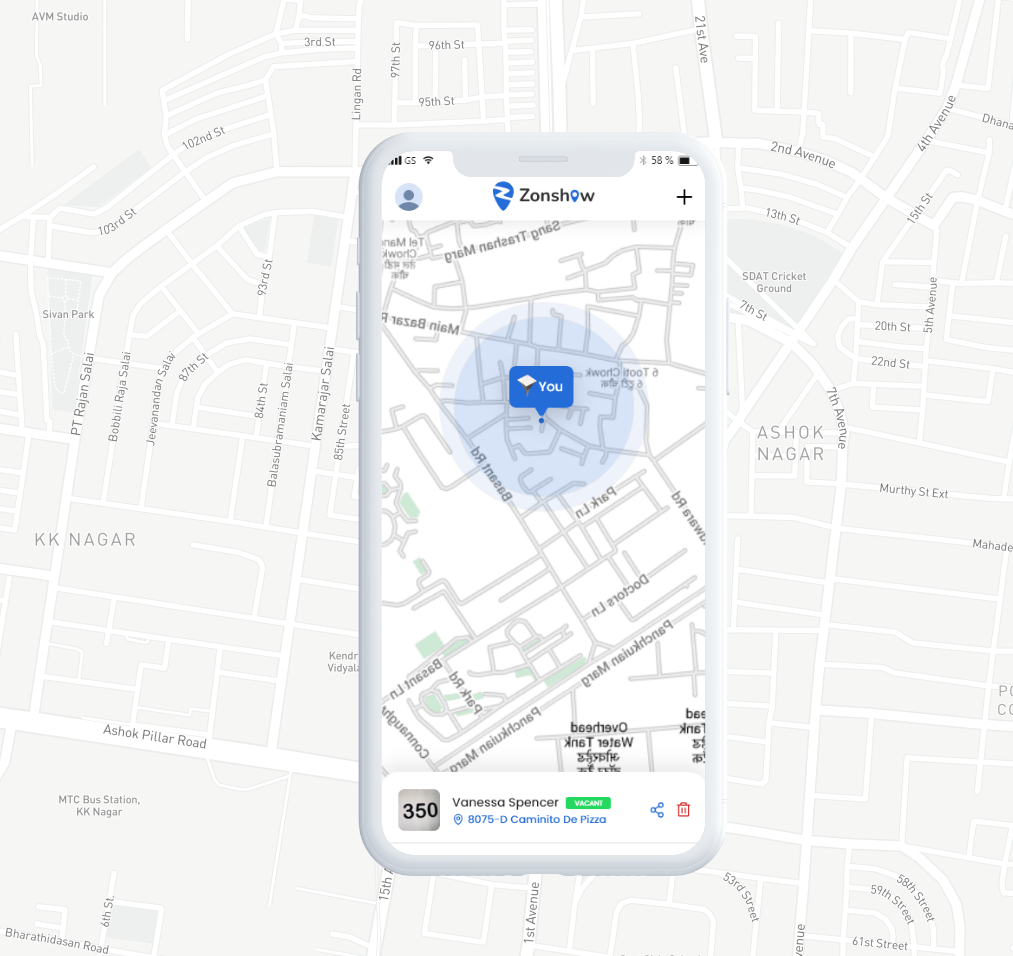
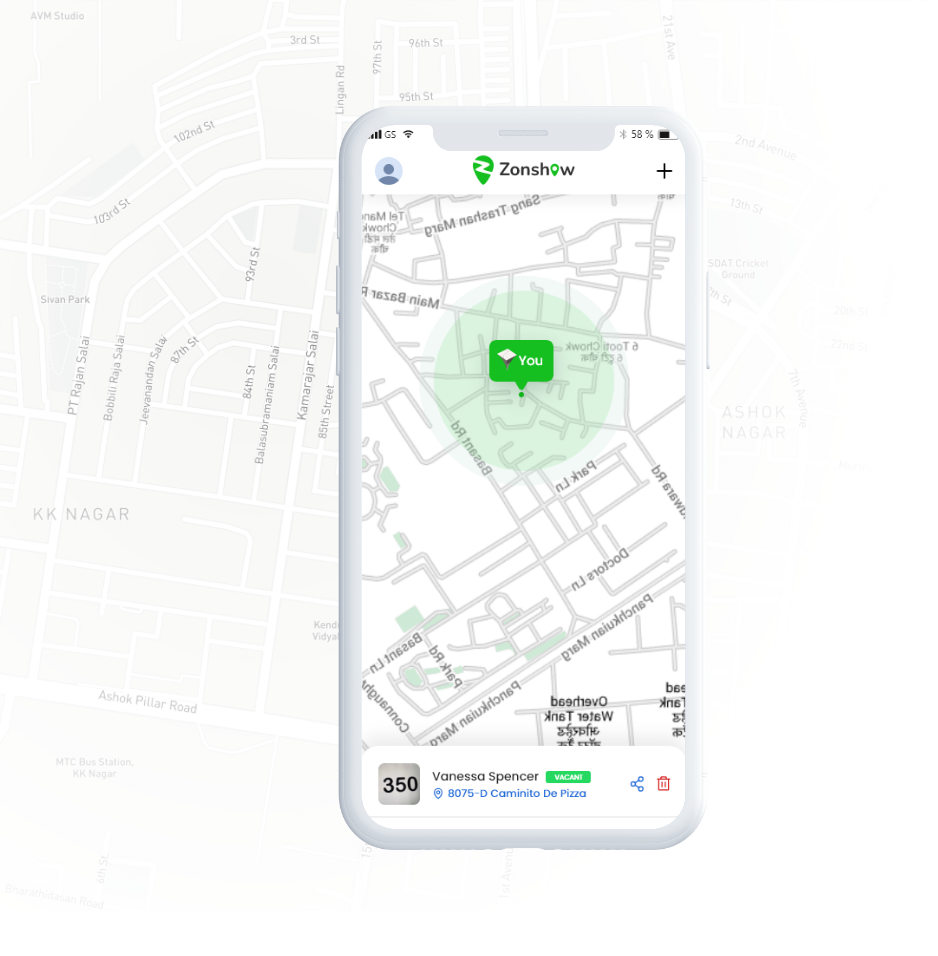
r1

diff --git a/index.html b/index.html
@@ -17,9 +17,9 @@
 </head>
 
 <body>
-    <nav class="navbar navbar-expand-lg bg-white navbar-light">
+    <nav class="navbar navbar_top navbar-expand-lg bg-white navbar-light" id="navbar_top">
         <div class="container">
-            <a class="navbar-brand" href="#"><img src="/Images/logo.png" alt="" class="img-fluid"></a>
+            <a class="navbar-brand" href="#home"><img src="/Images/logo-new.png" alt="" class="img-fluid"></a>
             <button class="navbar-toggler" type="button" data-bs-toggle="collapse" data-bs-target="#navbarTogglerDemo02"
                 aria-controls="navbarTogglerDemo02" aria-expanded="false" aria-label="Toggle navigation">
                 <span class="navbar-toggler-icon"></span>
@@ -27,41 +27,36 @@
             <div class="collapse navbar-collapse" id="navbarTogglerDemo02">
                 <ul class="navbar-nav ms-auto">
                     <li class="nav-item">
-                        <a class="nav-link active" aria-current="page" href="#">How its works</a>
+                        <a class="nav-link active" aria-current="page" href="#home">Home</a>
                     </li>
                     <li class="nav-item">
-                        <a class="nav-link" href="#">About Us</a>
+                        <a class="nav-link" href="#about">About Us</a>
                     </li>
                     <li class="nav-item">
-                        <a class="nav-link" href="#">Id Sticker</a>
+                        <a class="nav-link" href="#how">How it Works</a>
                     </li>
                     <li class="nav-item">
-                        <a class="nav-link" href="#">Testimonial</a>
+                        <a class="nav-link" href="#test">Testimonial</a>
                     </li>
-                    <li class="nav-item">
-                        <a class="nav-link" href="#">Sign in</a>
-                    </li>
-                </ul>
-                <a href="#" class="btn sign-up-btn">Sign Up</a>
+                  
             </div>
         </div>
     </nav>
-    <section class="hero">
+    <section class="hero" id="home">
         <div class="row">
             <div class="col-lg-6 m-auto  hero-img">
                 <div>
-                    <img src="/Images/new-hero.png" alt="" class="img-fluid">
+                    <img src="/Images/hero.png" alt="" class="img-fluid">
                 </div>
                 <div class="hero-wave">
-                    <lottie-player src="https://assets5.lottiefiles.com/packages/lf20_tqvrzfnf.json" speed="1" loop
-                        autoplay></lottie-player>
+                    <lottie-player src="/Images/wave.json" speed="1" loop autoplay></lottie-player>
                 </div>
             </div>
             <div class="col-lg-6 m-auto">
                 <div class="pt-3">
                     <h1>Pay for parking</h1>
                     <h1>by phone.</h1>
-                    <h1>Try <span class="text-blue"> ZonShow</span></h1>
+                    <h1>Try <span class="text-btn"> ZonShow</span></h1>
                     <p>No more searching for parking machines, small <br> ones and thinking about the time of
                         parking</p>
                     <div class="d-flex flex-wrap hero-logo">
@@ -70,11 +65,11 @@
                                 <img src="/Images/applestore-logo.png" alt="" class="img-fluid me-2">
                             </a>
                         </div>
-                        <div>
+                        <!-- <div>
                             <a href="#">
                                 <img src="/Images/playstore-logo.png" alt="" class="img-fluid">
                             </a>
-                        </div>
+                        </div> -->
                     </div>
                 </div>
             </div>
@@ -83,7 +78,7 @@
     <section class="work-page">
         <div class="container text-center">
             <div class="text-center">
-                <h3 class="bold"><i class="bx bxs-map text-blue me-3 bold"></i>How it works</h3>
+                <h3 class="bold"><i class="bx bxs-map text-btn me-3 bold"></i>How it works</h3>
             </div>
             <div class="w-70 m-auto numbering-btn">
                 <div class="d-flex justify-content-center pt-4">
@@ -98,7 +93,7 @@
             <div class="row justify-content-between card-container">
                 <div class="col-lg-4 p-5">
                     <div class="work-card h-100">
-                        <img src="/Images/car.png" alt="" class="img-fluid">
+                        <img src="/Images/car-new.png" alt="" class="img-fluid">
                         <h4 class="my-3">Create your Zone</h4>
                         <p>The user for zonshow creates a zone using their phone. The zone data is owned by the user and
                             stored on their device locally and is encrypted and uploaded to picParc servers to be
@@ -107,7 +102,7 @@
                 </div>
                 <div class="col-lg-4 p-5">
                     <div class="work-card h-100">
-                        <img src="/Images/Park.png" alt="" class="img-fluid" style="height: 245px;">
+                        <img src="/Images/Park-new.png" alt="" class="img-fluid">
                         <h4 class="my-3">Managed by Size</h4>
                         <p>TWhen creating the zone on zonshow App the Local zone data can also be locally managed by
                             chosen the size, shape and time frame for an active zone. This can be by voice command or by
@@ -116,7 +111,7 @@
                 </div>
                 <div class="col-lg-4 p-5">
                     <div class="work-card h-100">
-                        <img src="/Images/E-Wallet.png" alt="" class="img-fluid">
+                        <img src="/Images/parking-new.png" alt="" class="img-fluid">
                         <h4 class="my-3">Parking zones</h4>
                         <p>There will be various types of zones to select, a parking zone to lease out, or a security
                             parking zone that has a time limit and is turned off once the vehicle is moved from the
@@ -126,7 +121,7 @@
             </div>
         </div>
     </section>
-    <section class="solution bg-dark-blue">
+    <section class="solution bg-dark-blue" id="about">
         <div class="container">
             <div class="row align-items-center">
                 <div class="col-lg-6">
@@ -167,22 +162,23 @@
             </div>
         </div>
     </section>
-    <section class="problem-page bg-light-blue">
+    <section class="problem-page bg-light-blue" id="how">
         <div class="container text-center">
             <div class="text-center">
-                <h3 class="bold"><i class="bx bxs-map text-blue me-3"></i>How it works</h3>
+                <h3 class="bold"><i class="bx bxs-map text-btn me-3"></i>How it works</h3>
             </div>
             <div class="row justify-content-between">
-                <div class="col-lg-4 p-5">
+                <div class="col-lg-4 p-4">
                     <div class="work-card h-100">
                         <img src="/Images/problem.png" alt="" class="img-fluid">
                         <h4 class="my-3">The Problem</h4>
                         <p>Currently the impact of Global warming has been in the news and there seems to be very little
                             each individual can do to help with solutions. The funding solutions has been limited to
                             large institutions or people with wealth.</p>
+                        <a href="#" class="btn bg-btn text-white">Learn more</a>
                     </div>
                 </div>
-                <div class="col-lg-4 p-5">
+                <div class="col-lg-4 p-4">
                     <div class="work-card h-100">
                         <img src="/Images/statement.png" alt="" class="img-fluid">
                         <h4 class="my-3">Problem statement</h4>
@@ -190,9 +186,10 @@
                             day.
                             Finding a convenient parking space, picParc use AI to help find parking spots and its voice
                             activated.</p>
+                        <a href="#" class="btn bg-btn text-white">Learn more</a>
                     </div>
                 </div>
-                <div class="col-lg-4 p-5">
+                <div class="col-lg-4 p-4">
                     <div class="work-card h-100">
                         <img src="/Images/proposal.png" alt="" class="img-fluid">
                         <h4 class="my-3">Solution Proposal</h4>
@@ -200,6 +197,7 @@
                             The APP will allow person to create a zone and check to see if the zone is functioning just
                             using local data on the phone.
                         </p>
+                        <a href="#" class="btn bg-btn text-white">Learn more</a>
                     </div>
                 </div>
             </div>
@@ -208,7 +206,7 @@
 
     <section class="testimonial">
         <div class="text-center ">
-            <h3 class="mb-3 bold"><i class="bx bxs-map text-blue me-3"></i>How it works</h3>
+            <h3 class="mb-3 bold" id="test"><i class="bx bxs-map text-btn me-3"></i>Testimonial</h3>
             <p class="text-gray">Don't just take our word for it-check out some of the <br> latest customer testimonials
                 for our picParc App</p>
             <!-- <i class='bx bxs-star'></i> -->
@@ -356,42 +354,36 @@
             </div>
         </div>
     </section>
-    <footer class="bg-dark-blue">
+
+    <footer class="bg-dark-blue pt-5">
         <div class="container">
-            <div class="d-flex main-flex">
-                <div class="col-lg-2 self-align-end foot-logo">
-                    <img src="/Images/footer-logo.png" alt="" class="img-fluid">
+            <div class="row justify-content-between align-items-center">
+                <div class="col-lg-2">
+                    <div>
+                        <img src="/Images/footer-logo-new.png" alt="" class="img-fluid">
+                    </div>
+                    <div class="mt-3">
+                        <a href="#" class="me-3"><img src="/Images/footer-app.png" alt=""></a>
+                    </div>
                 </div>
-                <div class=" col-lg-8">
+                <div class="col-lg-8 my-2">
                     <div class="inp m-auto d-flex justify-content-between">
                         <div class="inp-label w-100">
-                            <label for="">Type Your Email Address</label>
-                            <input type="email" name="" id="" class="w-100">
+                            <input type="email" name="" id="" class="w-100" placeholder="Type Your Email Address">
                         </div>
                         <div>
                             <input type="submit" value="Send Now">
                         </div>
                     </div>
                 </div>
-                <div class="col-2"> </div>
-            </div>
-
-            <div class=" d-flex main-flex justify-content-between align-items-center mt-3">
-                <div class="d-sm-flex col-lg-2 fm">
-                    <a href="#" class="me-3"><img src="/Images/footer-app.png" alt=""></a>
-                    <a href="#"><img src="/Images/foot-play.png" alt=""></a>
-                </div>
-                <div class="col-lg-8 fm">
-                    <ul class="text-white bold d-md-flex justify-content-between w-60 m-auto footer-nav">
-                        <li> <a href="#" class="text-dec-none text-white bold active"> Home</a></li>
-                        <li><a href="#" class="text-dec-none text-white bold">Services</a></li>
-                        <li><a href="#" class="text-dec-none text-white bold">About Us</a></li>
-                        <li><a href="#" class="text-dec-none text-white bold">Property</a></li>
-                        <li><a href="#" class="text-dec-none text-white bold">Contact Us</a></li>
-                    </ul>
-                </div>
-                <div class="col-lg-2 fm">
-                    <div class="social-icon text-center d-flex w-75 justify-content-between">
+                <div class="col-lg-2 my-2">
+                    <div>
+                        <h5 class="text-white mb-3">Contact us</h5>
+                        <h6 class="text-gray d-flex align-items-center my-1"><i class="ph-envelope-bold me-2"></i> <span>info@zonshow.com</span></h6>
+                        <h6 class="text-gray d-flex align-items-center my-1"><i class="ph-phone-bold me-2"></i> <span>+9658745248
+                        </span></h6>
+                    </div>
+                    <div class="social-icon text-center d-flex w-75 justify-content-between mt-3">
                         <a href="#"><i class='bx bxl-facebook'></i></a>
                         <a href="#"><i class='bx bxl-instagram'></i></a>
                         <a href="#"><i class='bx bxl-twitter'></i></a>
@@ -412,6 +404,7 @@
         </div>
     </footer>
 
+
     <script src="/script.js"></script>
     <script src="https://cdn.jsdelivr.net/npm/bootstrap@5.0.2/dist/js/bootstrap.bundle.min.js"
         crossorigin="anonymous"></script>
@@ -430,18 +423,18 @@
                 autoplay: true,
                 autoplayTimeout: 1000,
                 autoplayHoverPause: true,
-                responsive:{
-        0:{
-            items:1,
-        },
-        600:{
-            items:2,
-           
-        },
-        1000:{
-            items:4,
-        }
-    }
+                responsive: {
+                    0: {
+                        items: 1,
+                    },
+                    600: {
+                        items: 2,
+
+                    },
+                    1000: {
+                        items: 4,
+                    }
+                }
             });
             $('.play').on('click', function () {
                 owl.trigger('play.owl.autoplay', [1000])
@@ -449,7 +442,7 @@
             $('.stop').on('click', function () {
                 owl.trigger('stop.owl.autoplay')
             })
-            
+
         })
     </script>
 </body>

diff --git a/style.css b/style.css
@@ -8,6 +8,7 @@ body{overflow-x: hidden; background-color:var(--white);}
     --dark-blue:#0B2346;
     --gray-bg:#FBFCFC;
     --light-blue:#F4F7FD;
+    --btn-color:#14bf1f;
 }
 .flex-wrap{flex-wrap: wrap;}
 .flex-rev{flex-direction:column-reverse;}
@@ -24,12 +25,14 @@ h1,h2,h3,h4,h5,h6,p{margin-bottom: 0rem;}
 .bg-light-blue{background-color: var(--light-blue);}
 .text-gold{color: gold;}
 .bg-white{background-color: white;}
+.bg-btn{background-color: var(--btn-color);}
+.text-btn{color: var(--btn-color);}
 
 
 /* navbar */
 nav{z-index: 1;}
 .navbar-brand img{width: 205px; height: 58px;}
-.sign-up-btn{background-color: var(--blue); color: white; font-weight: 600; text-decoration: none; border:2px solid var(--blue); font-size: 16px; padding: 15px 42px;}
+.sign-up-btn{background-color: var(--btn-color); color: white; font-weight: 600; text-decoration: none; border:2px solid var(--btn-color); font-size: 16px; padding: 15px 42px;}
 .sign-up-btn:hover{color: var(--black); background: none;}
 .navbar-nav .nav-item{margin-right: 40px; font-size: 18px; font-weight: 600; font-weight: bold; color: gray;}
 nav{filter: drop-shadow(0px 4px 12px rgb(0, 0, 0,8%));}
@@ -51,20 +54,23 @@ nav{filter: drop-shadow(0px 4px 12px rgb(0, 0, 0,8%));}
 .work-page button{width: 60px; height: 60px; border-radius:50%; filter: drop-shadow(0px 8px 24px rgb(65, 71, 81,8%)); border: none;}
 .work-card{ box-shadow:0px 16px 32px rgba(168, 200, 245, 0.25);  border-radius: 12px; padding: 15px 20px;}
 .work-card:hover{box-shadow:0px 16px 32px rgba(168, 200, 245, 0.75);}
-.work-card p{font-size: 16px; color: var(--gray);}
+.work-card p{font-size: 15.9px; color: var(--gray);}
 .work-card h4{font-weight: bold; font-size: 26px;}
 
+.card-container img{width: 303px; height: 220px;}
 
 /* solution  */
 .solution{padding: 120px 0px;}
 .sol-park lottie-player{width: 500px; height: 500px;}
 .solution h3{font-size: 38px; margin-bottom: 1rem;}
 .solution p{font-size: 22px; margin-right: 30px;}
-.solution .btn{padding: 10px 70px; background-color: var(--blue); color: white; font-weight: 600; margin-top: 30px; font-size: 20px;} 
+.solution .btn{padding: 10px 70px; background-color: var(--btn-color); color: white; font-weight: 600; margin-top: 30px; font-size: 20px;} 
 
 .problem-page .work-card:hover{filter: drop-shadow(0px 6px 34px rgb(0, 0, 0,6%)); background-color: white; transition: 0.2s ease-in-out;}
 .problem-page{padding: 80px 0px;}
-
+.problem-page .work-card{position: relative;}
+.problem-page .btn{padding: 8px 20px; margin-top: 2rem;}
+.problem-page .btn:focus{ bottom:0px; outline: none; border: none;}
 
 
 /* testimonial */
@@ -77,10 +83,10 @@ nav{filter: drop-shadow(0px 4px 12px rgb(0, 0, 0,8%));}
 
 
 .footer-nav{list-style: none;}
-.footer-nav .active{border-bottom: 2px solid blue; color: blue !important; font-weight: bold;}
+.footer-nav .active{border-bottom: 2px solid var(--btn-color); color: var(--btn-color) !important; font-weight: bold;}
 .w-60{width: 60%;}
 .inp-label{display: flex; flex-direction: column; background-color: none;}
-.inp{width: 70%; height: 70px; background-color: #304462; padding: 7px; margin-top: 20px !important; border-radius: 4px;}
+.inp{width: 70%; height: 60px; background-color: #304462; padding: 7px; margin-top: 20px !important; border-radius: 4px;}
 footer input[type="email"]{
     width: 200px;
     height: 100%;
@@ -92,10 +98,11 @@ footer input[type="email"]{
 }
 footer label{color: gray;}
 footer input[type="submit"]{
-    height: 100%; padding: 0px 40px; background-color: var(--blue); color: white; border: none; font-weight: bold; border-radius: 4px;
+    height: 100%; padding: 0px 40px; background-color: var(--btn-color); color: white; border: none; font-weight: bold; border-radius: 4px;
 }
 .self-align-end{align-self: flex-end;}
-footer .bx{color: white; font-size: 24px;}
+footer .bx{color: rgb(255, 255, 255,0.5); font-size: 24px; border: 2px solid #0B2346; border-radius: 50%; padding: 5px;}
+footer .bx:hover{color: #14bf1f; border: 2px solid var(--btn-color);}
      
 /* responsive  */
 @media(max-width:1400px){

diff --git a/script.js b/script.js
@@ -1,0 +1,15 @@
+document.addEventListener("DOMContentLoaded", function() {
+    window.addEventListener('scroll', function() {
+        if (window.scrollY > 300) {
+            document.getElementById('navbar_top').classList.add('fixed-top');
+            navbar_height = document.querySelector('.navbar').offsetHeight;
+            document.body.style.paddingTop = navbar_height + 'px';
+
+        } else {
+            document.getElementById('navbar_top').classList.remove('fixed-top');
+            document.body.style.paddingTop = '';
+           
+        
+        }
+    });
+});
